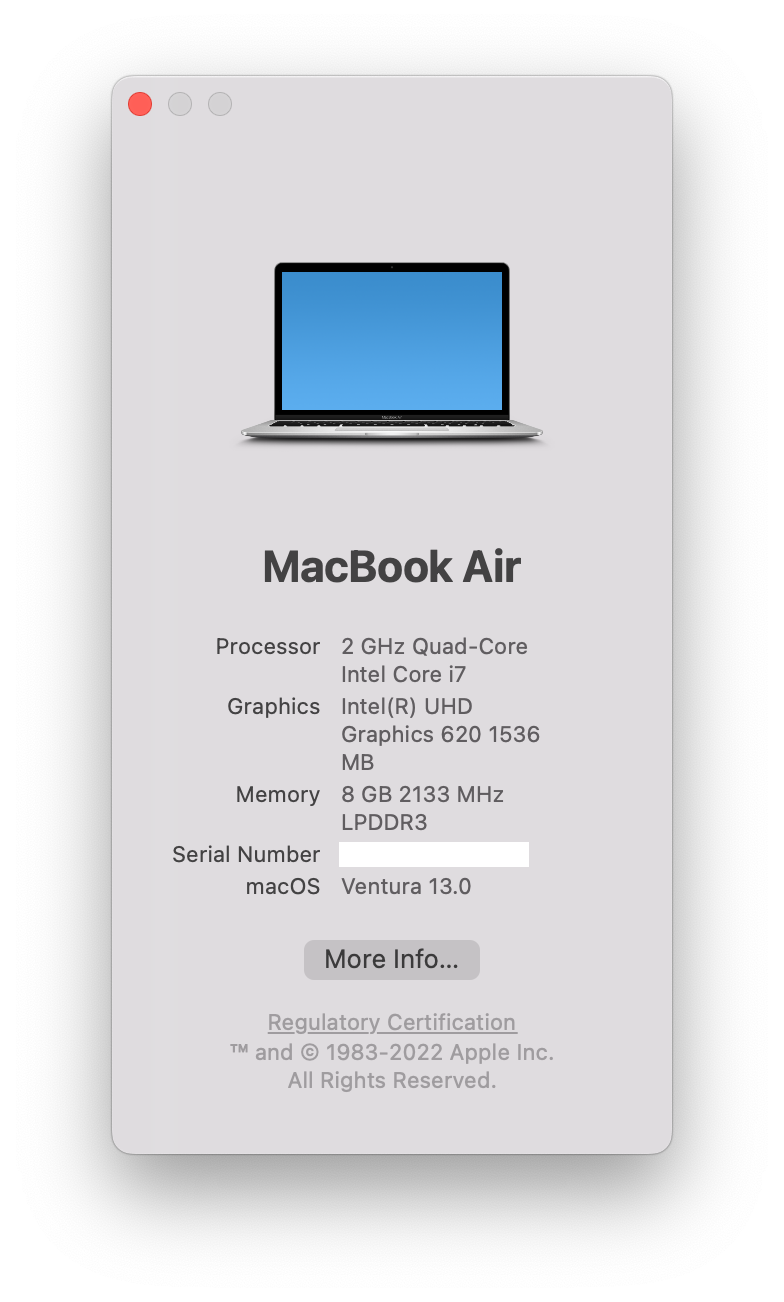
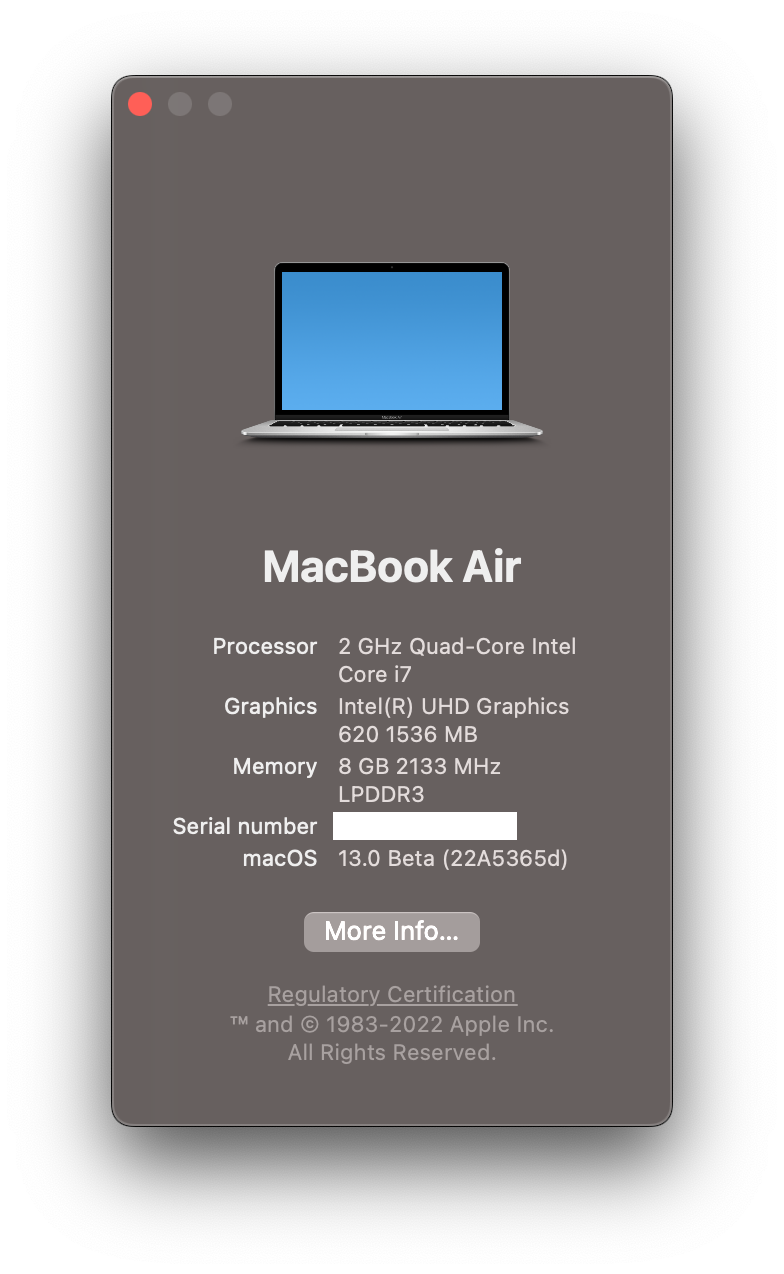
Support for macOS Ventura

diff --git a/Readme.md b/Readme.md
@@ -24,7 +24,7 @@
 -----
 
 
-#### This repository is currently compatible with macOS Ventura, Monterey, Big Sur and OpenCore 0.8.4
+#### This repository is currently compatible with macOS Ventura, Monterey, Big Sur and OpenCore 0.8.5
 <div align="center">
 
 |    macOS    |   |   Status   |
@@ -381,7 +381,7 @@ For reference, see [Thunderbolt 3 Fix](https://osy.gitbook.io/hac-mini-guide/det
 
 
 ## Bootloader Firmware
-- Default bootloader: `OpenCore 0.8.4` [Official release](https://github.com/acidanthera/OpenCorePkg/releases).
+- Default bootloader: `OpenCore 0.8.5` [Official release](https://github.com/acidanthera/OpenCorePkg/releases).
     - Support macOS 10.15 ~ latest macOS release
     - As theme for `OpenCanopy`, a cleaner version with custom graphics has been provided by [**@R-Teer**](https://github.com/R-Teer)
     - See more info in [Wiki section](https://github.com/profzei/Matebook-X-Pro-2018/wiki/Converting-from-Clover-to-OpenCore) about migration from Clover.
@@ -865,7 +865,7 @@ log show --predicate 'process == "kernel"' --style syslog --source --debug --las
 | Item | Version | Remark |
 | :--- | :--- | :--- |
 | MacOS | 13 | |
-| [OpenCore](https://github.com/acidanthera/OpenCorePkg/releases) | 0.8.4| Default Bootloader |
+| [OpenCore](https://github.com/acidanthera/OpenCorePkg/releases) | 0.8.5| Default Bootloader |
 | [Lilu](https://github.com/acidanthera/Lilu/releases) | 1.6.2 | Kext/process/framework/library patcher |
 | [WhateverGreen](https://github.com/acidanthera/whatevergreen/releases) | 1.6.1 | Handle Graphics card |
 | [AppleALC](https://github.com/acidanthera/AppleALC/releases) | 1.7.4 | Handle/fix onboard audio |
@@ -881,7 +881,7 @@ log show --predicate 'process == "kernel"' --style syslog --source --debug --las
 | [RestrictEvents](https://github.com/acidanthera/RestrictEvents/releases) | 1.0.8 | Block unwanted processes |
 | [VoodooI2C](https://github.com/alexandred/VoodooI2C/releases) | 2.7 | Handle I2C device |
 | [VoodooI2CHID](https://github.com/alexandred/VoodooI2C/releases) | 2.7 | Touchpad I2C satellite |
-| [VoodooPS2Controller](https://github.com/acidanthera/VoodooPS2/releases) | 2.2.9 | Enable keyboard, alternative trackpad driver |
+| [VoodooPS2Controller](https://github.com/acidanthera/VoodooPS2/releases) | 2.3.1 | Enable keyboard, alternative trackpad driver |
 | [VirtualSMC + plugins](https://github.com/acidanthera/VirtualSMC/releases) | 1.3.0 | SMC chip emulation |
 | [USBInjectAll](https://github.com/daliansky/OS-X-USB-Inject-All/releases) | 0.7.6 | Inject USB ports |
 | [VoltageShift](https://github.com/sicreative/VoltageShift) | 1.25 | Undervoltage tool |

diff --git a/Changelog.md b/Changelog.md
@@ -2,6 +2,26 @@
 
 English
 
+- **10-05-2022**
+
+    Update to **macOS Ventura beta (22A5365d)**
+
+    **Update**
+    - Update `OpenCore` v. 0.8.5
+    - Update [kext] `VoodooPS2Controller` v. 2.3.1
+    - Update [kext] stripped `AirportItlwm_Big_Sur` v. 2.2.0 beta (commit ee56708)
+    - Update [kext] stripped `AirportItlwm_Catalina` v. 2.2.0 beta (commit ee56708)
+    - Update [kext] stripped `AirportItlwm_Monterey` v. 2.2.0 beta (commit ee56708)
+    - Update [kext] stripped `AirportItlwm_Ventura` v. 2.2.0 beta (commit ee56708)
+
+    **OpenCore**
+    - No change needed for `config.plist` to support `OpenCore` v. 0.8.5
+    - Reduced warning messages number for Intel(R) UHD Graphics 620 in system log during boot phase: they are correct/normal, however eliminating those warnings reduces log-file size thus reducing slightly boot loading time.
+
+- **09-22-2022**
+
+    Update to **macOS Ventura beta (22A5352e)**
+
 - **09-11-2022**
 
     Update to **macOS Ventura beta (22A5342f)**
